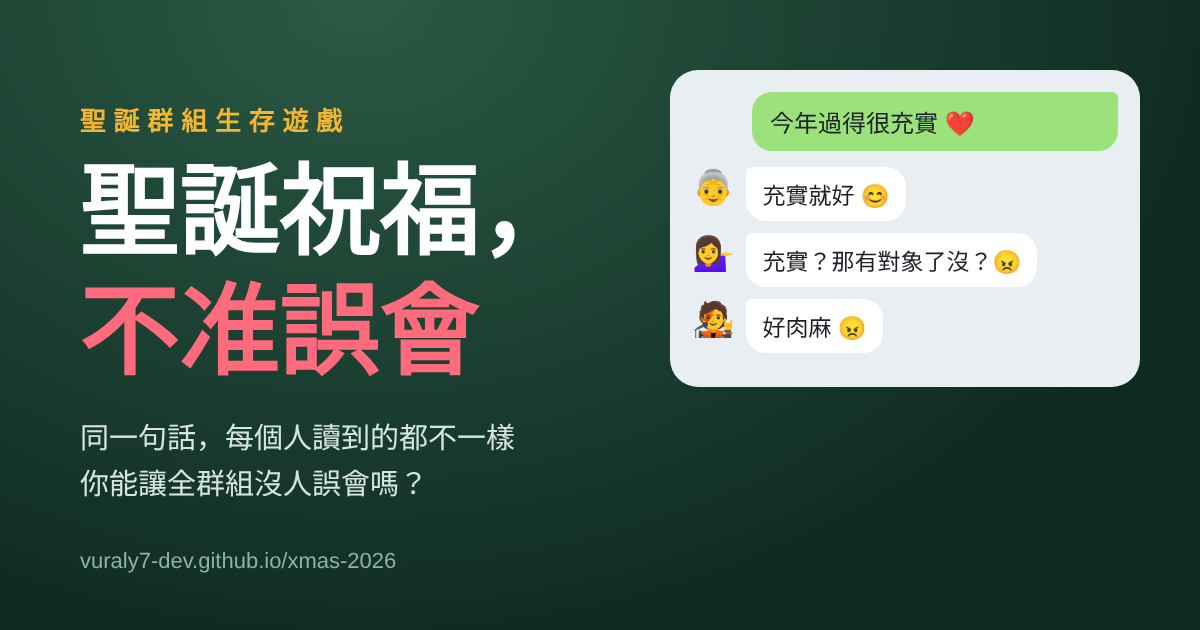
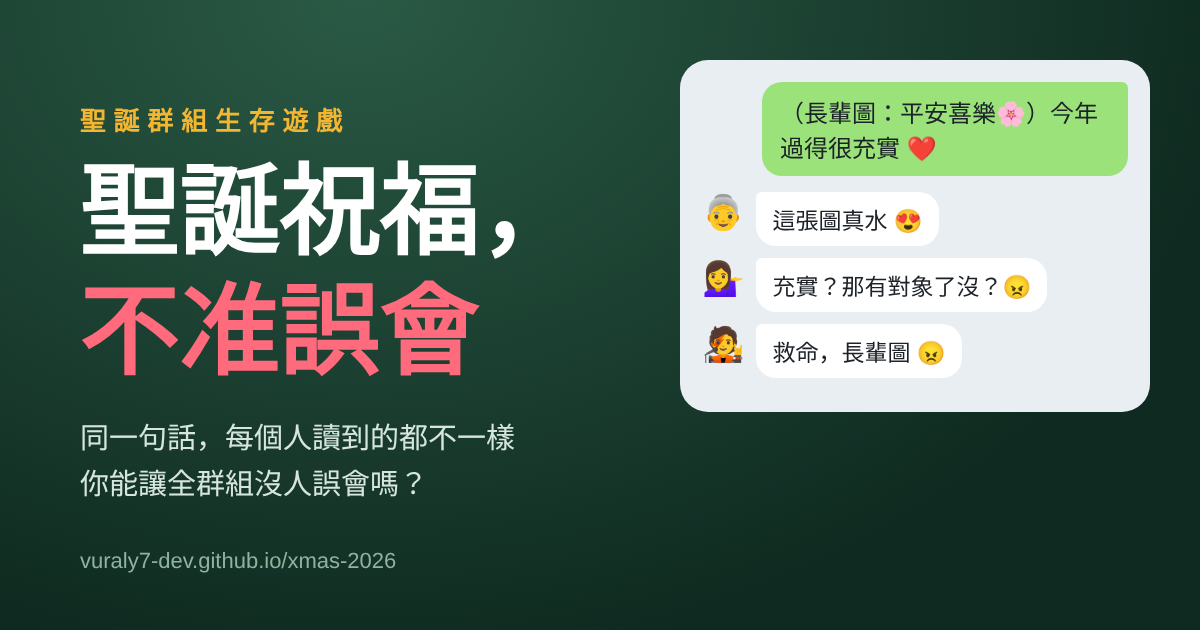
Add files via upload

Changed region(s): [[0.555, 0.0905, 0.9558, 0.6635]]

diff --git a/xmas-message.html b/xmas-message.html
@@ -2,7 +2,7 @@
 <html lang="zh-Hant">
 <head>
 <meta charset="UTF-8">
-<meta name="viewport" content="width=device-width, initial-scale=1, maximum-scale=1">
+<meta name="viewport" content="width=device-width, initial-scale=1, maximum-scale=1, viewport-fit=cover">
 <meta name="description" content="同一句聖誕快樂，阿嬤、二姑、主管、前任讀到的都不一樣。拼出一句讓全群組沒人誤會的祝福！">
 <meta property="og:type" content="website">
 <meta property="og:locale" content="zh_TW">
@@ -24,11 +24,11 @@
 <style>
 :root{--bg:#e9eef3;--me:#9be27a;--red:#d7263d;--green:#1f8a5b;--ink:#1c2228;--muted:#7a8590;--gold:#f2b632}
 *{box-sizing:border-box;margin:0;padding:0;-webkit-tap-highlight-color:transparent}
-html,body{height:100%}
+html,body{min-height:100%}
 body{font-family:"Noto Sans TC",system-ui,sans-serif;color:var(--ink);background:#cfd8e0}
-.app{max-width:520px;height:100%;margin:0 auto;display:flex;flex-direction:column;background:var(--bg);position:relative;overflow:hidden}
+.app{max-width:520px;min-height:100vh;min-height:100dvh;margin:0 auto;display:flex;flex-direction:column;background:var(--bg);position:relative}
 /* cover */
-.cover{position:absolute;inset:0;z-index:20;display:flex;flex-direction:column;justify-content:center;padding:28px 24px;
+.cover{position:fixed;inset:0;max-width:520px;margin:0 auto;z-index:20;overflow-y:auto;display:flex;flex-direction:column;justify-content:center;padding:28px 24px;
   background:radial-gradient(ellipse at 50% 0%,#2a5a45,#0f2a20 70%);color:#fff;text-align:center}
 .cover .k{font-size:12px;letter-spacing:.3em;color:var(--gold)}
 .cover h1{font-family:"Noto Serif TC",serif;font-size:40px;line-height:1.3;margin:14px 0}
@@ -41,19 +41,20 @@ body{font-family:"Noto Sans TC",system-ui,sans-serif;color:var(--ink);background
 .btn:disabled{background:#b9c2ca;box-shadow:none;cursor:default}
 .foot{font-size:11px;color:#8fb3a2;margin-top:16px;line-height:1.7}
 /* header */
-header{display:flex;align-items:center;gap:10px;padding:12px 14px;background:#2b3a46;color:#fff;flex:none}
+header{display:flex;align-items:center;gap:10px;padding:calc(env(safe-area-inset-top) + 10px) 14px 10px;background:#2b3a46;color:#fff;flex:none}
 header .gi{width:38px;height:38px;border-radius:50%;background:#ffffff22;display:grid;place-items:center;font-size:20px}
 header b{display:block;font-size:15.5px}
 header span{font-size:12px;color:#b9c6d1}
 header .lv{margin-left:auto;font-size:12px;background:#ffffff1f;padding:4px 10px;border-radius:99px;white-space:nowrap}
 /* readers */
-.readers{display:flex;gap:6px;padding:10px 10px 8px;background:#f7f9fb;border-bottom:1px solid #d9e0e6;flex:none}
+.readers{display:flex;gap:6px;padding:8px 10px 6px;background:#f7f9fb;border-bottom:1px solid #d9e0e6;flex:none}
 .rd{flex:1;text-align:center;font-size:11.5px;color:var(--muted)}
-.rd .av{width:44px;height:44px;margin:0 auto 3px;border-radius:50%;background:#fff;border:2px solid #d9e0e6;display:grid;place-items:center;font-size:24px;position:relative;transition:border-color .3s}
+.rd .av{width:40px;height:40px;margin:0 auto 3px;border-radius:50%;background:#fff;border:2px solid #d9e0e6;display:grid;place-items:center;font-size:24px;position:relative;transition:border-color .3s}
 .rd .mood{position:absolute;right:-6px;bottom:-4px;font-size:17px}
 .rd.hap .av{border-color:#1f8a5b}.rd.ang .av{border-color:var(--red)}.rd.ok .av{border-color:#f2b632}
 /* chat */
-#chat{flex:1;overflow-y:auto;padding:14px 12px 8px}
+#chat{flex:none;height:clamp(170px,36vh,440px);overflow-y:auto;padding:14px 12px 8px;transition:height .3s}
+#chat.tall{height:auto;min-height:170px;max-height:none;overflow:visible}
 .sysm{text-align:center;font-size:12px;color:var(--muted);margin:4px 0 12px}
 .sysm span{background:#d6dee5;padding:4px 10px;border-radius:99px}
 .row{display:flex;gap:8px;margin-bottom:10px;animation:in .3s ease}
@@ -66,20 +67,25 @@ header .lv{margin-left:auto;font-size:12px;background:#ffffff1f;padding:4px 10px
 .read{font-size:11px;color:var(--muted);white-space:nowrap}
 .typing{color:var(--muted);font-size:13px}
 /* composer */
-.comp{flex:none;background:#fff;border-top:1px solid #d9e0e6;padding:10px 12px 14px}
-.preview{min-height:44px;background:#f2f5f8;border-radius:12px;padding:10px 12px;font-size:15px;line-height:1.5;margin-bottom:8px;color:#9aa5af}
+.comp{flex:1;background:#fff;border-top:1px solid #d9e0e6;padding:10px 12px 8px}
+.sendbar{position:sticky;bottom:0;z-index:12;background:#fff;border-top:1px solid #d9e0e6;padding:8px 12px calc(env(safe-area-inset-bottom) + 10px);box-shadow:0 -6px 16px #0000000f}
+.prow{display:flex;gap:8px;align-items:stretch}
+.preview{flex:1;min-height:44px;background:#f2f5f8;border-radius:12px;padding:9px 12px;font-size:14.5px;line-height:1.5;color:#9aa5af}
+.sendb{flex:none;width:72px;font:inherit;font-weight:700;font-size:15px;border:0;border-radius:12px;background:var(--red);color:#fff;cursor:pointer}
+.sendb:disabled{background:#c5cdd4;cursor:default}
 .preview.full{color:var(--ink)}
-.slot{margin-bottom:7px}
+.slot{margin-bottom:6px}
 .slot .lab{font-size:11px;color:var(--muted);margin-bottom:4px;letter-spacing:.1em}
-.tiles{display:flex;gap:6px;overflow-x:auto;padding-bottom:2px;scrollbar-width:none}
+.tiles{display:flex;flex-wrap:wrap;gap:6px}
 .tiles::-webkit-scrollbar{display:none}
-.tile{flex:none;font:inherit;font-size:13.5px;background:#f2f5f8;border:1.5px solid #dde4ea;border-radius:99px;padding:7px 12px;cursor:pointer;white-space:nowrap;color:var(--ink)}
+.tile{flex:none;font:inherit;font-size:13px;background:#f2f5f8;border:1.5px solid #dde4ea;border-radius:99px;padding:6px 11px;touch-action:manipulation;cursor:pointer;white-space:nowrap;color:var(--ink)}
 .tile.on{background:#2b3a46;border-color:#2b3a46;color:#fff}
-.sendrow{display:flex;gap:8px;align-items:center;margin-top:4px}
-.tries{font-size:12px;color:var(--muted);white-space:nowrap}
+.tries{font-size:11px;color:var(--muted);text-align:right;margin-top:2px}
+.mbtn{width:34px;height:34px;border-radius:50%;border:0;background:#ffffff22;color:#fff;font-size:16px;cursor:pointer;flex:none}
+.cover .mnote{font-size:12px;color:#8fb3a2;margin-top:10px}
 /* result sheet */
-.sheet{position:absolute;left:0;right:0;bottom:0;z-index:15;background:#fff;border-radius:22px 22px 0 0;padding:20px 20px 22px;box-shadow:0 -10px 40px #0003;transform:translateY(110%);transition:transform .45s cubic-bezier(.2,1.1,.3,1)}
-.sheet.show{transform:none}
+.sheet{display:none;background:#fff;border-top:1px solid #d9e0e6;padding:18px 18px calc(env(safe-area-inset-bottom) + 20px)}
+.sheet.show{display:block;animation:in .35s ease}
 .stars{font-size:38px;text-align:center;letter-spacing:6px}
 .sheet h2{text-align:center;font-size:21px;margin:4px 0 4px}
 .sheet p{text-align:center;color:var(--muted);font-size:14px;line-height:1.7;margin-bottom:14px}
@@ -101,26 +107,73 @@ header .lv{margin-left:auto;font-size:12px;background:#ffffff1f;padding:4px 10px
     <h1>聖誕祝福，<br><em>不准誤會</em></h1>
     <p>你要在群組裡發一則聖誕祝福。<br>問題是——<b>每個人讀到的意思都不一樣。</b></p>
     <div class="demo">
-      你傳：「今年過得很充實 ❤」<br>
-      👵 阿嬤讀到：<b>充實就好</b><br>
-      💁♀ 二姑讀到：<b>充實？那有對象了沒？</b><br>
-      🧑🎤 表弟讀到：<b>好肉麻</b>
+      你在家族群組傳：<br>「（長輩圖：平安喜樂🌸） 今年過得很充實 ❤」<br>
+      👵 阿嬤：<b>這張圖真水 😍</b><br>
+      💁♀ 二姑：<b>充實？那有對象了沒？😠</b><br>
+      👩 媽媽：<b>媽媽也愛你 😊</b><br>
+      🧑🎤 表弟：<b>救命，長輩圖 😠</b><br>
+      <span style="color:#ff8a98">→ 二姑、表弟誤會了，群組炸了 💥</span>
     </div>
-    <p style="font-size:14px">拼出一句讓<b>群組裡沒有人誤會</b>的祝福。<br>三關：公司群組 → 同學會群組 → 家族群組</p>
+    <p style="font-size:14px">從「開頭、中段、結尾」各選一句，<br>拼出讓<b>群組裡沒有人誤會</b>的祝福。<br>三關：公司群組 → 同學會群組 → 家族群組</p>
     <button class="btn" id="go" style="margin-top:22px">開始發訊息</button>
+    <div class="mnote">遊戲有按鍵音效・iPhone 若沒聲音，請調高媒體音量</div>
     <div class="foot">純屬虛構娛樂・不讀取、不儲存任何資料・© 2026 liva</div>
   </div>
   <header><div class="gi" id="gi"></div><div><b id="gn"></b><span id="gs"></span></div><div class="lv" id="lv"></div></header>
   <div class="readers" id="readers"></div>
   <div id="chat"></div>
-  <div class="comp" id="comp"></div>
   <div class="sheet" id="sheet"></div>
+  <div class="comp" id="comp"></div>
+  <div class="sendbar" id="sendbar"></div>
 </div>
 <div class="toast" id="toast"></div>
 
 <script>
 const shareUrl = () => /claude|anthropic|usercontent/.test(location.hostname) || location.protocol==="file:" ? "" : "\n"+location.origin+location.pathname;
-const LV = [{"name": "業務二部（含主管）", "icon": "💼", "sub": "公司群組・18 人", "readers": [["主管", "👔"], ["同事小君", "👩💻"], ["HR", "📋"], ["實習生", "🧑🎓"]], "slots": [[["各位辛苦了，聖誕快樂！", [[1, "有團隊意識"], [1, "你也辛苦了"], [1, "氣氛真好"], [0, "前輩好"]]], ["終於要放假了🎉", [[-2, "12/25 沒有放假"], [2, "懂"], [-1, "請依行事曆"], [1, "真的嗎！"]]], ["報告主管，聖誕快樂", [[2, "嗯，很好"], [-2, "馬屁精"], [0, "嗯"], [0, "學起來"]]], ["Merry Christmas everyone", [[0, "嗯"], [0, "好喔"], [1, "很國際化"], [1, "好潮"]]]], [["今年學到很多", [[1, "知道就好"], [0, "嗯"], [1, "有成長"], [1, "前輩好認真"]]], ["明年繼續衝業績！", [[2, "這才對"], [-2, "要衝你自己衝"], [0, ""], [-1, "壓力好大"]]], ["謝謝小君一直幫我", [[-1, "那我呢？"], [2, "不客氣💕"], [1, "團隊合作"], [0, ""]]], ["今天可以準時下班嗎", [[-2, "……"], [2, "拜託"], [0, "依規定可以"], [2, "拜託拜託"]]]], [["🎄", [[0, ""], [0, ""], [0, ""], [1, "可愛"]]], ["交換禮物準備好了！", [[0, "嗯"], [1, "我也是"], [2, "終於有人回應活動了"], [1, "我也準備了"]]], ["（貼圖：敬禮🫡）", [[1, "嗯"], [0, ""], [0, ""], [-1, "好老的貼圖"]]], ["明天的會議我會準時", [[2, "很好"], [-1, "幹嘛提會議"], [0, ""], [-1, "什麼會議？？"]]]]]}, {"name": "三年二班永遠的家", "icon": "🏫", "sub": "同學會群組・前任也在", "readers": [["前任", "💔"], ["班長", "📣"], ["班導", "👨🏫"], ["阿明", "🤪"]], "slots": [[["好久不見！聖誕快樂", [[0, "…好久不見"], [1, "好久不見！"], [1, "同學們好"], [1, "欸你還活著"]]], ["欸～大家還記得我嗎", [[-1, "怎麼可能忘記"], [1, "當然記得！"], [0, "記得記得"], [2, "記得你欠我 100"]]], ["老師聖誕快樂！", [[0, ""], [1, "老師好"], [2, "還記得老師，感動"], [-1, "又在拍馬屁"]]], ["Merry Xmas～", [[-1, "以前我們都這樣講…"], [0, "嗯"], [-1, "看不懂"], [1, "好喔"]]]], [["最近過得很好", [[-2, "沒有我過得很好是吧"], [1, "太好了"], [1, "老師很欣慰"], [0, "炫耀"]]], ["今年一個人過聖誕", [[1, "……我也是"], [2, "那來同學會啊！"], [-1, "要照顧好自己"], [1, "我陪你"]]], ["大家要不要辦同學會", [[0, "看情況"], [2, "終於有人說了！"], [1, "老師一定到"], [1, "有吃的就去"]]], ["最近在追一部微短劇", [[1, "我們以前也一起追劇"], [-1, "已讀"], [-1, "多讀書"], [2, "哪部！"]]]], [["❤", [[-2, "這顆愛心是給誰的？"], [0, ""], [1, "老師也愛你們"], [-1, "噁"]]], ["🙏", [[0, ""], [1, "🙏"], [1, "🙏"], [0, ""]]], ["@阿明 欠我的 100 還來", [[1, "哈，你一點都沒變"], [1, "哈哈哈"], [-1, "同學之間不要借錢"], [-1, "我們不是說好不提"]]], ["（你收回了一則訊息）", [[-2, "收回了什麼？？"], [-1, "？"], [0, ""], [2, "已截圖"]]]]]}, {"name": "相親相愛一家人", "icon": "👨👩👧👦", "sub": "家族群組・42 人", "readers": [["阿嬤", "👵"], ["二姑", "💁♀"], ["媽媽", "👩"], ["表弟", "🧑🎤"]], "slots": [[["各位家人聖誕快樂🎄", [[1, "聖誕節是啥？算了，乖孫有心"], [0, "嗯"], [1, "有記得群組，很好"], [-1, "好老派…"]]], ["Merry Xmas 🎅✨", [[-2, "看嘸啦，番仔字"], [0, "英文喔"], [0, "這是什麼意思"], [1, "可以"]]], ["阿嬤！聖誕快樂！", [[2, "我的乖孫！！"], [-1, "只跟阿嬤說？我呢"], [1, "孝順"], [0, "…"]]], ["（長輩圖：平安喜樂🌸）", [[2, "這張圖真水"], [1, "轉傳了"], [0, "你什麼時候變這樣"], [-2, "救命，長輩圖"]]]], [["今年過得很充實", [[1, "充實就好"], [-2, "充實？那有對象了沒？"], [0, "嗯"], [0, "好喔"]]], ["工作很忙但很開心", [[-1, "忙到都不回來"], [0, "賺多少？"], [-1, "忙到不回家喔"], [0, "社畜加油"]]], ["過年一定回家吃飯", [[2, "阿嬤煮你最愛吃的"], [-1, "回來我介紹對象給你"], [2, "你說的喔"], [0, "那我也回"]]], ["最近在學煮飯", [[1, "會煮飯好"], [2, "會煮飯，可以結婚了"], [0, "上次寄的水餃吃完了嗎"], [1, "教我"]]]], [["❤", [[1, "愛心"], [0, ""], [1, "媽媽也愛你"], [-1, "好肉麻"]]], ["（附上紅包 🧧）", [[1, "這孩子懂事"], [1, "有我的嗎"], [-1, "亂花錢"], [2, "我的呢我的呢"]]], ["祝大家平安健康", [[1, "平安就好"], [1, "大家都健康"], [1, "你也是"], [0, "好喔"]]], ["😂", [[-1, "笑什麼"], [-1, "在笑我嗎？"], [0, "？"], [2, "哈哈哈哈"]]]]]}];
+
+/* ===== 按鍵音效：全部由程式即時合成，不使用任何音效檔 ===== */
+const Music=(()=>{
+  let ctx=null;
+  // iPhone 靜音鍵開啟時，網頁音效預設會被靜音；先播放一段無聲音檔，讓音效改走「媒體」音量
+  function iosUnlock(){
+    try{
+      const sr=8000,len=sr/2,buf=new ArrayBuffer(44+len*2),v=new DataView(buf);
+      const w=(o,s)=>{for(let i=0;i<s.length;i++)v.setUint8(o+i,s.charCodeAt(i));};
+      w(0,"RIFF");v.setUint32(4,36+len*2,true);w(8,"WAVEfmt ");v.setUint32(16,16,true);v.setUint16(20,1,true);v.setUint16(22,1,true);
+      v.setUint32(24,sr,true);v.setUint32(28,sr*2,true);v.setUint16(32,2,true);v.setUint16(34,16,true);w(36,"data");v.setUint32(40,len*2,true);
+      const a=new Audio(URL.createObjectURL(new Blob([buf],{type:"audio/wav"})));
+      a.loop=true; a.setAttribute("playsinline",""); a.volume=0.01; a.play().catch(()=>{});
+    }catch(e){}
+  }
+  let sfxOut=null, unlocked=false;
+  function ensure(){
+    if(!ctx){ ctx=new (window.AudioContext||window.webkitAudioContext)();
+      sfxOut=ctx.createGain(); sfxOut.gain.value=.5; sfxOut.connect(ctx.destination); }
+    if(!unlocked){ unlocked=true; iosUnlock(); }
+    if(ctx.state!=="running") ctx.resume();
+  }
+  function tone(f1,f2,t,len,type,vol){
+    const o=ctx.createOscillator(), g=ctx.createGain(); o.type=type||"sine";
+    o.frequency.setValueAtTime(f1,t); if(f2) o.frequency.exponentialRampToValueAtTime(f2,t+len*.8);
+    g.gain.setValueAtTime(.0001,t); g.gain.exponentialRampToValueAtTime(vol||.3,t+.01); g.gain.exponentialRampToValueAtTime(.0001,t+len);
+    o.connect(g).connect(sfxOut); o.start(t); o.stop(t+len+.03);
+  }
+  const SFX={
+    tap(t){ tone(1320,0,t,.09,"sine",.22); tone(2640,0,t,.05,"sine",.06); },
+    send(t){ tone(420,1400,t,.22,"sine",.25); tone(840,2600,t+.02,.18,"triangle",.06); },
+    pop(t){ tone(880,0,t,.08,"sine",.2); tone(1320,0,t+.06,.12,"sine",.2); },
+    win(t){ [523.25,659.25,783.99,1046.5].forEach((f,i)=>{ tone(f,0,t+i*.11,.5,"sine",.25); tone(f*2,0,t+i*.11,.3,"sine",.05); }); },
+    ok(t){ [523.25,659.25,783.99].forEach((f,i)=>tone(f,0,t+i*.12,.45,"sine",.22)); },
+    fail(t){ tone(220,110,t,.45,"sawtooth",.12); tone(233,116,t+.02,.45,"square",.05); }
+  };
+  return {
+    sfx(name){ try{ ensure(); SFX[name] && SFX[name](ctx.currentTime+.01); }catch(e){} },
+    start(){ try{ ensure(); }catch(e){} },
+    pause(h){ if(!ctx) return; try{ h? ctx.suspend() : ctx.resume(); }catch(e){} }
+  };
+})();
+
+const LV = [{"name": "業務二部（含主管）", "icon": "💼", "sub": "公司群組・18 人", "readers": [["主管", "👔"], ["同事小華兒", "👩💻"], ["HR", "📋"], ["實習生", "🧑🎓"]], "slots": [[["各位辛苦了，聖誕快樂！", [[1, "有團隊意識"], [1, "你也辛苦了"], [1, "氣氛真好"], [0, "前輩好"]]], ["終於要放假了🎉", [[-2, "12/25 沒有放假"], [2, "懂"], [-1, "請依行事曆"], [1, "真的嗎！"]]], ["報告主管，聖誕快樂", [[2, "嗯，很好"], [-2, "馬屁精"], [0, "嗯"], [0, "學起來"]]], ["Merry Christmas everyone", [[0, "嗯"], [0, "好喔"], [1, "很國際化"], [1, "好潮"]]]], [["今年學到很多", [[1, "知道就好"], [0, "嗯"], [1, "有成長"], [1, "前輩好認真"]]], ["明年繼續衝業績！", [[2, "這才對"], [-2, "要衝你自己衝"], [0, ""], [-1, "壓力好大"]]], ["謝謝小華兒一直幫我", [[-1, "那我呢？"], [2, "不客氣💕"], [1, "團隊合作"], [0, ""]]], ["今天可以準時下班嗎", [[-2, "……"], [2, "拜託"], [0, "依規定可以"], [2, "拜託拜託"]]]], [["🎄", [[0, ""], [0, ""], [0, ""], [1, "可愛"]]], ["交換禮物準備好了！", [[0, "嗯"], [1, "我也是"], [2, "終於有人回應活動了"], [1, "我也準備了"]]], ["（貼圖：敬禮🫡）", [[1, "嗯"], [0, ""], [0, ""], [-1, "好老的貼圖"]]], ["明天的會議我會準時", [[2, "很好"], [-1, "幹嘛提會議"], [0, ""], [-1, "什麼會議？？"]]]]]}, {"name": "三年二班永遠的家", "icon": "🏫", "sub": "同學會群組・前任也在", "readers": [["前任", "💔"], ["班長", "📣"], ["班導", "👨🏫"], ["阿明", "🤪"]], "slots": [[["好久不見！聖誕快樂", [[0, "…好久不見"], [1, "好久不見！"], [1, "同學們好"], [1, "欸你還活著"]]], ["欸～大家還記得我嗎", [[-1, "怎麼可能忘記"], [1, "當然記得！"], [0, "記得記得"], [2, "記得你欠我 100"]]], ["老師聖誕快樂！", [[0, ""], [1, "老師好"], [2, "還記得老師，感動"], [-1, "又在拍馬屁"]]], ["Merry Xmas～", [[-1, "以前我們都這樣講…"], [0, "嗯"], [-1, "看不懂"], [1, "好喔"]]]], [["最近過得很好", [[-2, "沒有我過得很好是吧"], [1, "太好了"], [1, "老師很欣慰"], [0, "炫耀"]]], ["今年一個人過聖誕", [[1, "……我也是"], [2, "那來同學會啊！"], [-1, "要照顧好自己"], [1, "我陪你"]]], ["大家要不要辦同學會", [[0, "看情況"], [2, "終於有人說了！"], [1, "老師一定到"], [1, "有吃的就去"]]], ["最近在追一部微短劇", [[1, "我們以前也一起追劇"], [-1, "已讀"], [-1, "多讀書"], [2, "哪部！"]]]], [["❤", [[-2, "這顆愛心是給誰的？"], [0, ""], [1, "老師也愛你們"], [-1, "噁"]]], ["🙏", [[0, ""], [1, "🙏"], [1, "🙏"], [0, ""]]], ["@阿明 欠我的 100 還來", [[1, "哈，你一點都沒變"], [1, "哈哈哈"], [-1, "同學之間不要借錢"], [-1, "我們不是說好不提"]]], ["（你收回了一則訊息）", [[-2, "收回了什麼？？"], [-1, "？"], [0, ""], [2, "已截圖"]]]]]}, {"name": "相親相愛一家人", "icon": "👨👩👧👦", "sub": "家族群組・42 人", "readers": [["阿嬤", "👵"], ["二姑", "💁♀"], ["媽媽", "👩"], ["表弟", "🧑🎤"]], "slots": [[["各位家人聖誕快樂🎄", [[1, "聖誕節是啥？算了，乖孫有心"], [0, "嗯"], [1, "有記得群組，很好"], [-1, "好老派…"]]], ["Merry Xmas 🎅✨", [[-2, "看嘸啦，番仔字"], [0, "英文喔"], [0, "這是什麼意思"], [1, "可以"]]], ["阿嬤！聖誕快樂！", [[2, "我的乖孫！！"], [-1, "只跟阿嬤說？我呢"], [1, "孝順"], [0, "…"]]], ["（長輩圖：平安喜樂🌸）", [[2, "這張圖真水"], [1, "轉傳了"], [0, "你什麼時候變這樣"], [-2, "救命，長輩圖"]]]], [["今年過得很充實", [[1, "充實就好"], [-2, "充實？那有對象了沒？"], [0, "嗯"], [0, "好喔"]]], ["工作很忙但很開心", [[-1, "忙到都不回來"], [0, "賺多少？"], [-1, "忙到不回家喔"], [0, "社畜加油"]]], ["過年一定回家吃飯", [[2, "阿嬤煮你最愛吃的"], [-1, "回來我介紹對象給你"], [2, "你說的喔"], [0, "那我也回"]]], ["最近在學煮飯", [[1, "會煮飯好"], [2, "會煮飯，可以結婚了"], [0, "上次寄的水餃吃完了嗎"], [1, "教我"]]]], [["❤", [[1, "愛心"], [0, ""], [1, "媽媽也愛你"], [-1, "好肉麻"]]], ["（附上紅包 🧧）", [[1, "這孩子懂事"], [1, "有我的嗎"], [-1, "亂花錢"], [2, "我的呢我的呢"]]], ["祝大家平安健康", [[1, "平安就好"], [1, "大家都健康"], [1, "你也是"], [0, "好喔"]]], ["😂", [[-1, "笑什麼"], [-1, "在笑我嗎？"], [0, "？"], [2, "哈哈哈哈"]]]]]}];
 const SLOT = ["開頭","中段","結尾"];
 const $ = id => document.getElementById(id);
 const sleep = ms => new Promise(r=>setTimeout(r,ms));
@@ -136,22 +189,32 @@ function load(i){
   $("chat").innerHTML=`<div class="sysm"><span>12 月 24 日 晚上 8:00</span></div><div class="sysm"><span>${["主管","班長","媽媽"][i]||"有人"}：今天大家記得說聖誕快樂喔～</span></div>`;
   $("sheet").classList.remove("show");
   renderComp();
+  try{ window.scrollTo(0,0); }catch(e){}
 }
 
 function msgText(){ return pick.map((p,s)=>p===null?null:LV[cur].slots[s][p][0]); }
 function renderComp(){
   const L=LV[cur], t=msgText(), full=t.every(x=>x!==null);
+  const left=t.filter(x=>x===null).length;
+  const pv = t.some(x=>x!==null)? t.map(x=>x??"＿＿").join(" ") : "從上面三排各選一句，組成你的祝福";
+  $("chat").classList.toggle("tall", busy);
+  if(busy){
+    $("comp").innerHTML=""; $("comp").style.display="none"; $("sendbar").style.display="none";
+    return;
+  }
+  $("comp").style.display=""; $("sendbar").style.display="";
   $("comp").innerHTML=`
-    <div class="preview ${full?"full":""}" id="pv">${t.some(x=>x!==null)? t.map(x=>x??"＿＿").join(" ") : "從下面三排各選一句，組成你的祝福"}</div>
-    ${L.slots.map((sl,s)=>`<div class="slot"><div class="lab">${SLOT[s]}</div><div class="tiles">${sl.map((tl,k)=>`<button class="tile ${pick[s]===k?"on":""}" data-s="${s}" data-k="${k}">${tl[0]}</button>`).join("")}</div></div>`).join("")}
-    <div class="sendrow"><span class="tries">已傳 ${tries} 次</span><button class="btn" id="send" ${full&&!busy?"":"disabled"} style="padding:12px">傳送 ➤</button></div>`;
-  $("comp").querySelectorAll(".tile").forEach(b=>b.onclick=()=>{ if(busy) return; pick[+b.dataset.s]=+b.dataset.k; renderComp(); });
-  $("send").onclick=send;
+    ${L.slots.map((sl,s)=>`<div class="slot"><div class="lab">${SLOT[s]}${pick[s]===null?" ・請選一句":" ✓"}</div><div class="tiles">${sl.map((tl,k)=>`<button type="button" class="tile ${pick[s]===k?"on":""}" data-s="${s}" data-k="${k}">${tl[0]}</button>`).join("")}</div></div>`).join("")}
+    <div class="tries">已傳 ${tries} 次</div>`;
+  $("sendbar").innerHTML=`<div class="prow"><div class="preview ${full?"full":""}">${pv}</div><button type="button" class="sendb" id="send" ${full?"":"disabled"}>${full?"傳送<br>➤":`還差<br>${left} 句`}</button></div>`;
+  $("comp").querySelectorAll(".tile").forEach(b=>b.addEventListener("click",()=>{ if(busy) return; pick[+b.dataset.s]=+b.dataset.k; Music.sfx("tap"); renderComp(); }));
+  const sb=$("send"); if(sb) sb.addEventListener("click",send);
 }
 
 async function send(){
   if(busy) return; busy=true; tries++;
   const L=LV[cur], text=msgText().join(" ");
+  Music.sfx("send");
   renderComp();
   const chat=$("chat");
   const me=document.createElement("div"); me.className="row me"; me.innerHTML=`<span class="read" id="rdc"></span><div class="bub">${text}</div>`;
@@ -175,13 +238,14 @@ async function send(){
     const tail = sc[r]>=2?" 😍":sc[r]===1?" 😊":sc[r]===0?"":" 😠";
     const row=document.createElement("div"); row.className="row";
     row.innerHTML=`<div class="a">${L.readers[r][1]}</div><div><div class="nm">${L.readers[r][0]}</div><div class="bub">${line}${tail}</div></div>`;
-    chat.appendChild(row); chat.scrollTop=1e9;
+    chat.appendChild(row); chat.scrollTop=1e9; try{ row.scrollIntoView({behavior:"smooth",block:"nearest"}); }catch(e){} Music.sfx("pop");
   }
   await sleep(700);
   const allHappy=sc.every(v=>v>=1), noAngry=sc.every(v=>v>=0);
   const stars = allHappy?3:noAngry?2:0;
   const angry = L.readers.filter((_,r)=>sc[r]<0).map(x=>x[0]);
   if(stars){ results[cur]={stars,tries,text}; }
+  Music.sfx(stars===3?"win":stars===2?"ok":"fail");
   sheet(stars, angry);
 }
 
@@ -199,8 +263,9 @@ function sheet(stars, angry){
       <button class="btn" id="rt">收回訊息，重新編輯</button>`;
   }
   s.classList.add("show");
-  if($("nx")) $("nx").onclick=()=> last? final() : load(cur+1);
-  $("rt").onclick=()=>{ s.classList.remove("show"); busy=false; renderComp(); };
+  setTimeout(()=>{ try{ s.scrollIntoView({behavior:"smooth",block:"end"}); }catch(e){} },60);
+  if($("nx")) $("nx").onclick=()=>{ Music.sfx("tap"); last? final() : load(cur+1); };
+  $("rt").onclick=()=>{ Music.sfx("tap"); s.classList.remove("show"); busy=false; renderComp(); try{ $("comp").scrollIntoView({behavior:"smooth",block:"start"}); }catch(e){} };
 }
 
 function final(){
@@ -216,6 +281,7 @@ function final(){
     <button class="btn ghost" id="again">從第一關重新開始</button>
     <div style="font-size:11px;color:var(--muted);margin-top:12px">純屬虛構娛樂・© 2026 liva</div></div>`;
   s.classList.add("show");
+  setTimeout(()=>{ try{ s.scrollIntoView({behavior:"smooth",block:"start"}); }catch(e){} },60);
   $("again").onclick=()=>{ results=[]; load(0); };
   $("sh").onclick=async()=>{
     const txt=`我在《聖誕祝福，不准誤會》拿到 ${total}/9 顆星，稱號「${title}」🎄\n總共傳了 ${tt} 次訊息才讓所有群組沒人誤會。\n家族群組最難，你敢挑戰嗎？${shareUrl()}`;
@@ -223,7 +289,8 @@ function final(){
   };
 }
 function toast(m){ const t=$("toast"); t.textContent=m; t.classList.add("show"); clearTimeout(t._h); t._h=setTimeout(()=>t.classList.remove("show"),2400); }
-$("go").onclick=()=>{ $("cover").style.display="none"; load(0); };
+$("go").onclick=()=>{ $("cover").style.display="none"; Music.start(); Music.sfx("win"); load(0); };
+document.addEventListener("visibilitychange",()=>Music.pause(document.hidden));
 </script>
 </body>
 </html>
